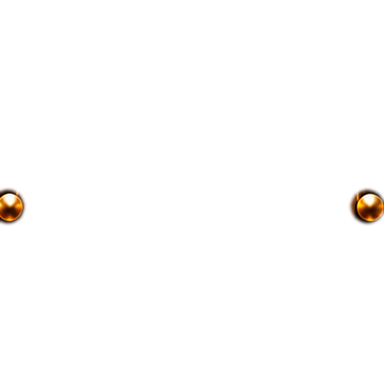
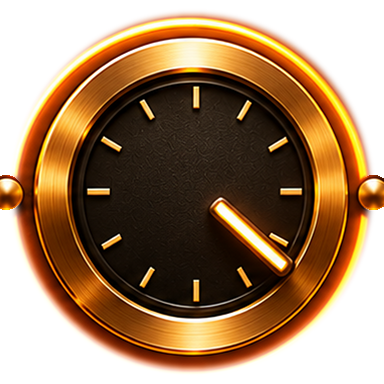
fix: Output dugmeleri yeni tam yuvarlak gorselden: merkez yuz dairesine oturtuldu, donen parca yuz + halka + ibre (tam disk), sabit parca dis isik halkasi + civiler; zemindeki eski dugme izi rastgele doku ile yeniden dolduruldu (simetrik desen yok); MASTER biraz asagi

diff --git a/src/preload.js b/src/preload.js
@@ -3232,7 +3232,7 @@ if (isAutotunePage()) {
       const enhBtns=qa(enhSection,'.switches > .btn'); stPlace(enhBtns[0],2778,333,3262,393);
       enhBtns.slice(1).forEach((el,i)=>stPlace(el,[[2780,420,2930,480],[2950,420,3097,480],[3117,420,3262,480]][i][0],420,[[2780,420,2930,480],[2950,420,3097,480],[3117,420,3262,480]][i][2],480));
       const vus=q(outSection,'.vus'); qa(vus,'.vu').forEach((el,i)=>stPlace(el,...(i===0?[3368,172,3648,365]:[3675,172,3952,365])));
-      const outKnobs=qa(outSection,'.knob-box'); outKnobs.forEach((el,i)=>stPlace(el,...(i===0?[3556,362,3764,570]:[3842,566,3934,658])));
+      const outKnobs=qa(outSection,'.knob-box'); outKnobs.forEach((el,i)=>stPlace(el,...(i===0?[3556,404,3764,612]:[3842,566,3934,658])));
       stPlace(q(outSection,'.limiter'),3553,655,3743,715);
       const chainRow=q(chainSection,'.st-chainrow'); qa(chainRow,'.st-mod').forEach((el,i)=>{el.style.flex='0 1 calc('+[450,450,175,175,270,175,175,175,270,270,260,270,270,260][i]+' / 4344 * 100cqw)';});
       const chainbar=q(chainSection,'.st-chainbar'); stPlace(chainbar,973,845,2320,902); chainbar.classList.add('st-placed');

diff --git a/design/tools/studio_outknobs.py b/design/tools/studio_outknobs.py
@@ -1,50 +1,43 @@
 # Output MASTER / THRESH knobs from design/ref/outknobs-ref.png.
-# cap = the whole round knob with its pointer, rotated so the pointer points up (turns as one piece); base = the two side studs
-# (static). Same canvas size, one exact centre (fitted to the dark face circle), so the knob turns in place.
+# Centre = least-squares circle fitted to the dark face edge (so it turns in place).
+# cap  = face + brass bezel + pointer (a perfect disc), rotated so the pointer points up: this is what turns.
+# base = the full knob incl. the outer glow ring and the two side studs: static, shown under the cap.
 # usage: python -I design/tools/studio_outknobs.py design/ref/outknobs-ref.png design/tex
 import sys, math
 import numpy as np
 from PIL import Image, ImageDraw, ImageFilter
 src, out = sys.argv[1], sys.argv[2]
 img = Image.open(src).convert('RGB')
-def knob(name, cx, cy, R, rdisc, studs, p0, p1, pw):
-    S = 2 * R
-    # pad so the square crop can leave the source image
-    pad = Image.new('RGB', (img.width + 2 * R, img.height + 2 * R)); pad.paste(img, (R, R))
-    ox, oy = cx - R + R, cy - R + R  # crop origin in padded coords (sub-pixel centre handled by affine below)
-    crop = pad.transform((S, S), Image.AFFINE, (1, 0, cx - R + R, 0, 1, cy - R + R), resample=Image.BICUBIC)
-    c = (R, R)
-    # pointer mask (segment p0->p1, width pw), in crop coordinates
-    q0 = (p0[0] - cx + R, p0[1] - cy + R); q1 = (p1[0] - cx + R, p1[1] - cy + R)
-    pm = Image.new('L', (S, S)); d = ImageDraw.Draw(pm); d.line([q0, q1], fill=255, width=pw)
-    for q in (q0, q1): d.ellipse([q[0] - pw / 2, q[1] - pw / 2, q[0] + pw / 2, q[1] + pw / 2], fill=255)
-    pm = pm.filter(ImageFilter.GaussianBlur(1.5))
-    # base: pointer area filled from the same knob turned by 90 deg (ticks repeat every 30 deg, the face is radially uniform)
-    fill = crop.rotate(90, resample=Image.BICUBIC, center=c)
-    # erase mask: pointer plus its drop shadow (wider, extended a little toward the centre and outwards)
-    em = Image.new('L', (S, S)); d2 = ImageDraw.Draw(em)
-    vx, vy = q1[0] - q0[0], q1[1] - q0[1]; L = math.hypot(vx, vy); ux, uy = vx / L, vy / L
-    e0 = (q0[0] - ux * pw * 0.6, q0[1] - uy * pw * 0.6); e1 = (q1[0] + ux * pw * 0.4, q1[1] + uy * pw * 0.4)
-    d2.line([e0, e1], fill=255, width=int(pw * 2.6))
-    d2.line([(e0[0], e0[1] + pw * 0.8), (e1[0], e1[1] + pw * 0.8)], fill=255, width=int(pw * 2.6))
-    # plus the whole wedge around the pointer inside the tick ring (its soft shadow spreads wider than the bar)
-    a0 = math.degrees(math.atan2(uy, ux)); rin = math.hypot(q1[0] - R, q1[1] - R) + pw * 0.5
-    d2.pieslice([R - rin, R - rin, R + rin, R + rin], a0 - 22, a0 + 26, fill=255)
-    big = em.filter(ImageFilter.GaussianBlur(3))
-    base = Image.composite(fill, crop, big)
-    # cap = the whole round knob WITH its pointer (it turns as one piece), rotated so the pointer points up
-    ang = math.degrees(math.atan2(q1[0] - R, -(q1[1] - R)))
-    dm = Image.new('L', (S, S)); ImageDraw.Draw(dm).ellipse([R - rdisc, R - rdisc, R + rdisc, R + rdisc], fill=255)
-    dm = dm.filter(ImageFilter.GaussianBlur(2))
-    cap = crop.convert('RGBA'); cap.putalpha(dm)
-    cap = cap.rotate(ang, resample=Image.BICUBIC, center=c)   # PIL: positive = counter-clockwise
-    cap.save(f'{out}/sk-st-{name}-cap.png', optimize=True)
-    # base = only the two side studs (they stay put)
-    sm = Image.new('L', (S, S)); d = ImageDraw.Draw(sm)
+lum = np.asarray(img).astype(float).mean(2)
+def fit(cx, cy, rmin, rmax, thr=120):
+    pts = []
+    for k in range(72):
+        t = math.radians(k * 5 + 2.5)
+        for r in range(rmin, rmax):
+            x = int(round(cx + r * math.cos(t))); y = int(round(cy + r * math.sin(t)))
+            if lum[y, x] > thr: pts.append((cx + r * math.cos(t), cy + r * math.sin(t))); break
+    P = np.array(pts)
+    for _ in range(3):
+        A = np.c_[2 * P, np.ones(len(P))]; b = (P ** 2).sum(1); sol, *_ = np.linalg.lstsq(A, b, rcond=None)
+        x0, y0 = sol[:2]; R = math.sqrt(sol[2] + x0 * x0 + y0 * y0)
+        d = np.hypot(P[:, 0] - x0, P[:, 1] - y0); P = P[abs(d - np.median(d)) < 3]
+    return x0, y0, R
+def disc(S, r, blur):
+    m = Image.new('L', (S, S)); ImageDraw.Draw(m).ellipse([S / 2 - r, S / 2 - r, S / 2 + r, S / 2 + r], fill=255)
+    return m.filter(ImageFilter.GaussianBlur(blur))
+def knob(name, guess, rng, half, cap_k, base_r, studs, tip):
+    cx, cy, Rf = fit(*guess, *rng)
+    S = 2 * half
+    pad = Image.new('RGB', (img.width + S, img.height + S)); pad.paste(img, (half, half))
+    crop = pad.transform((S, S), Image.AFFINE, (1, 0, cx, 0, 1, cy), resample=Image.BICUBIC)  # centre lands exactly at (half, half)
+    ang = math.degrees(math.atan2(tip[0] - cx, -(tip[1] - cy)))
+    cap = crop.convert('RGBA'); cap.putalpha(disc(S, Rf * cap_k, 1.2))
+    cap.rotate(ang, resample=Image.BICUBIC, center=(half, half)).save(f'{out}/sk-st-{name}-cap.png', optimize=True)
+    m = disc(S, base_r, 3)
+    d = ImageDraw.Draw(m)
     for (sx, sy, sr) in studs:
-        sx, sy = sx - cx + R, sy - cy + R; d.ellipse([sx - sr, sy - sr, sx + sr, sy + sr], fill=255)
-    sm = sm.filter(ImageFilter.GaussianBlur(1.5))
-    b = crop.convert('RGBA'); b.putalpha(sm); b.save(f'{out}/sk-st-{name}-base.png', optimize=True)
-    print(name, 'pointer angle', round(ang, 1))
-knob('kout-master', 523.5, 360.0, 372, 338, [(160, 381, 24), (873, 381, 24)], (585, 333), (722, 257), 24)
-knob('kout-thresh', 1327.4, 385.2, 192, 172, [(1143, 400, 16), (1503, 400, 16)], (1355, 408), (1420, 463), 14)
+        sx, sy = sx - cx + half, sy - cy + half; d.ellipse([sx - sr, sy - sr, sx + sr, sy + sr], fill=255)
+    base = crop.convert('RGBA'); base.putalpha(m); base.save(f'{out}/sk-st-{name}-base.png', optimize=True)
+    print(name, 'centre', round(cx, 1), round(cy, 1), 'face R', round(Rf, 1), 'pointer', round(ang, 1))
+knob('kout-master', (518, 375), (130, 280), 372, 1.205, 352, [(171, 385, 24), (857, 385, 24)], (711, 263))
+knob('kout-thresh', (1328, 410), (70, 140), 192, 1.235, 176, [(1138, 402, 17), (1506, 402, 17)], (1418, 470))

diff --git a/design/tools/studio_outplate.py b/design/tools/studio_outplate.py
@@ -1,0 +1,24 @@
+# Paints the old MASTER / THRESH knobs out of the Output plate in sk-studio.jpg with randomly quilted plate texture
+# (no mirror symmetry). Run on the backdrop BEFORE it had them removed (git show 64ff728:design/tex/sk-studio.jpg).
+# usage: python -I design/tools/studio_outplate.py <in.jpg> <out.jpg>
+import sys, numpy as np
+from PIL import Image
+a = np.asarray(Image.open(sys.argv[1]).convert('RGB')).astype(np.float32)
+src = a[588:652, 3692:3898]; rng = np.random.default_rng(7)
+def quilt(b, T=48, ov=16):
+    x0, y0, x1, y1 = b; w, h = x1 - x0, y1 - y0
+    acc = np.zeros((h + T, w + T, 3), np.float32); wt = np.zeros((h + T, w + T, 1), np.float32)
+    ramp = np.minimum(np.arange(T) + 1, T - np.arange(T)).astype(np.float32); ramp = np.minimum(ramp / ov, 1)
+    win = (ramp[:, None] * ramp[None, :])[..., None]
+    for y in range(0, h, T - ov):
+        for x in range(0, w, T - ov):
+            sy = rng.integers(0, src.shape[0] - T + 1); sx = rng.integers(0, src.shape[1] - T + 1)
+            t = src[sy:sy + T, sx:sx + T]
+            if rng.random() < .5: t = t[:, ::-1]
+            acc[y:y + T, x:x + T] += t * win; wt[y:y + T, x:x + T] += win
+    fill = acc[:h, :w] / np.maximum(wt[:h, :w], 1e-3)
+    yy, xx = np.mgrid[0:h, 0:w]; f = np.minimum.reduce([xx, yy, w - 1 - xx, h - 1 - yy]).astype(np.float32)
+    al = np.clip(f / 14, 0, 1)[..., None]
+    a[y0:y1, x0:x1] = a[y0:y1, x0:x1] * (1 - al) + fill * al
+quilt((3425, 360, 3672, 640)); quilt((3715, 405, 3850, 590))
+Image.fromarray(np.clip(a, 0, 255).astype(np.uint8)).save(sys.argv[2], quality=86)

diff --git a/design/tools/studio_title_fix.py b/design/tools/studio_title_fix.py
@@ -14,20 +14,4 @@ for job in sys.argv[2:] or ['enh']:
     if job == 'out': shift(20, 104, 142, 3538, 3692)      # OUTPUT: ~20 px left
     if job == 'outplate': shift(22, 86, 152, 3412, 3862)  # OUTPUT name plate: ~22 px left of the module centre
 Image.fromarray(a).save(p, quality=86)
-# 'outknobs': paint the old MASTER / THRESH knobs and labels out of the Output plate (live knobs + labels replace them)
-if 'outknobs' in sys.argv[2:]:
-    exec(open(__file__.replace('studio_title_fix.py', 'studio_cut_lib.py')).read().split("def crop(b)")[0])
-    import importlib.util
-    def texfill(b, src, feather=12):
-        sx0, sy0, sx1, sy1 = src; p_ = a[sy0:sy1, sx0:sx1].astype(np.float32)
-        w, h = b[2] - b[0], b[3] - b[1]; t = p_
-        while t.shape[1] < w: t = np.concatenate([t, t[:, ::-1]], 1)
-        t = t[:, :w]
-        while t.shape[0] < h: t = np.concatenate([t, t[::-1]], 0)
-        t = t[:h]
-        yy, xx = np.mgrid[0:h, 0:w]; f = np.minimum.reduce([xx, yy, w - 1 - xx, h - 1 - yy]).astype(np.float32)
-        al = np.clip(f / feather, 0, 1)[..., None]
-        a[b[1]:b[3], b[0]:b[2]] = (a[b[1]:b[3], b[0]:b[2]] * (1 - al) + t * al).astype(np.uint8)
-    texfill((3425, 360, 3672, 640), (3690, 585, 3900, 650))
-    texfill((3715, 405, 3850, 590), (3690, 585, 3900, 650))
-    Image.fromarray(a).save(p, quality=86)
+# (old MASTER / THRESH knob removal moved to studio_outplate.py)
